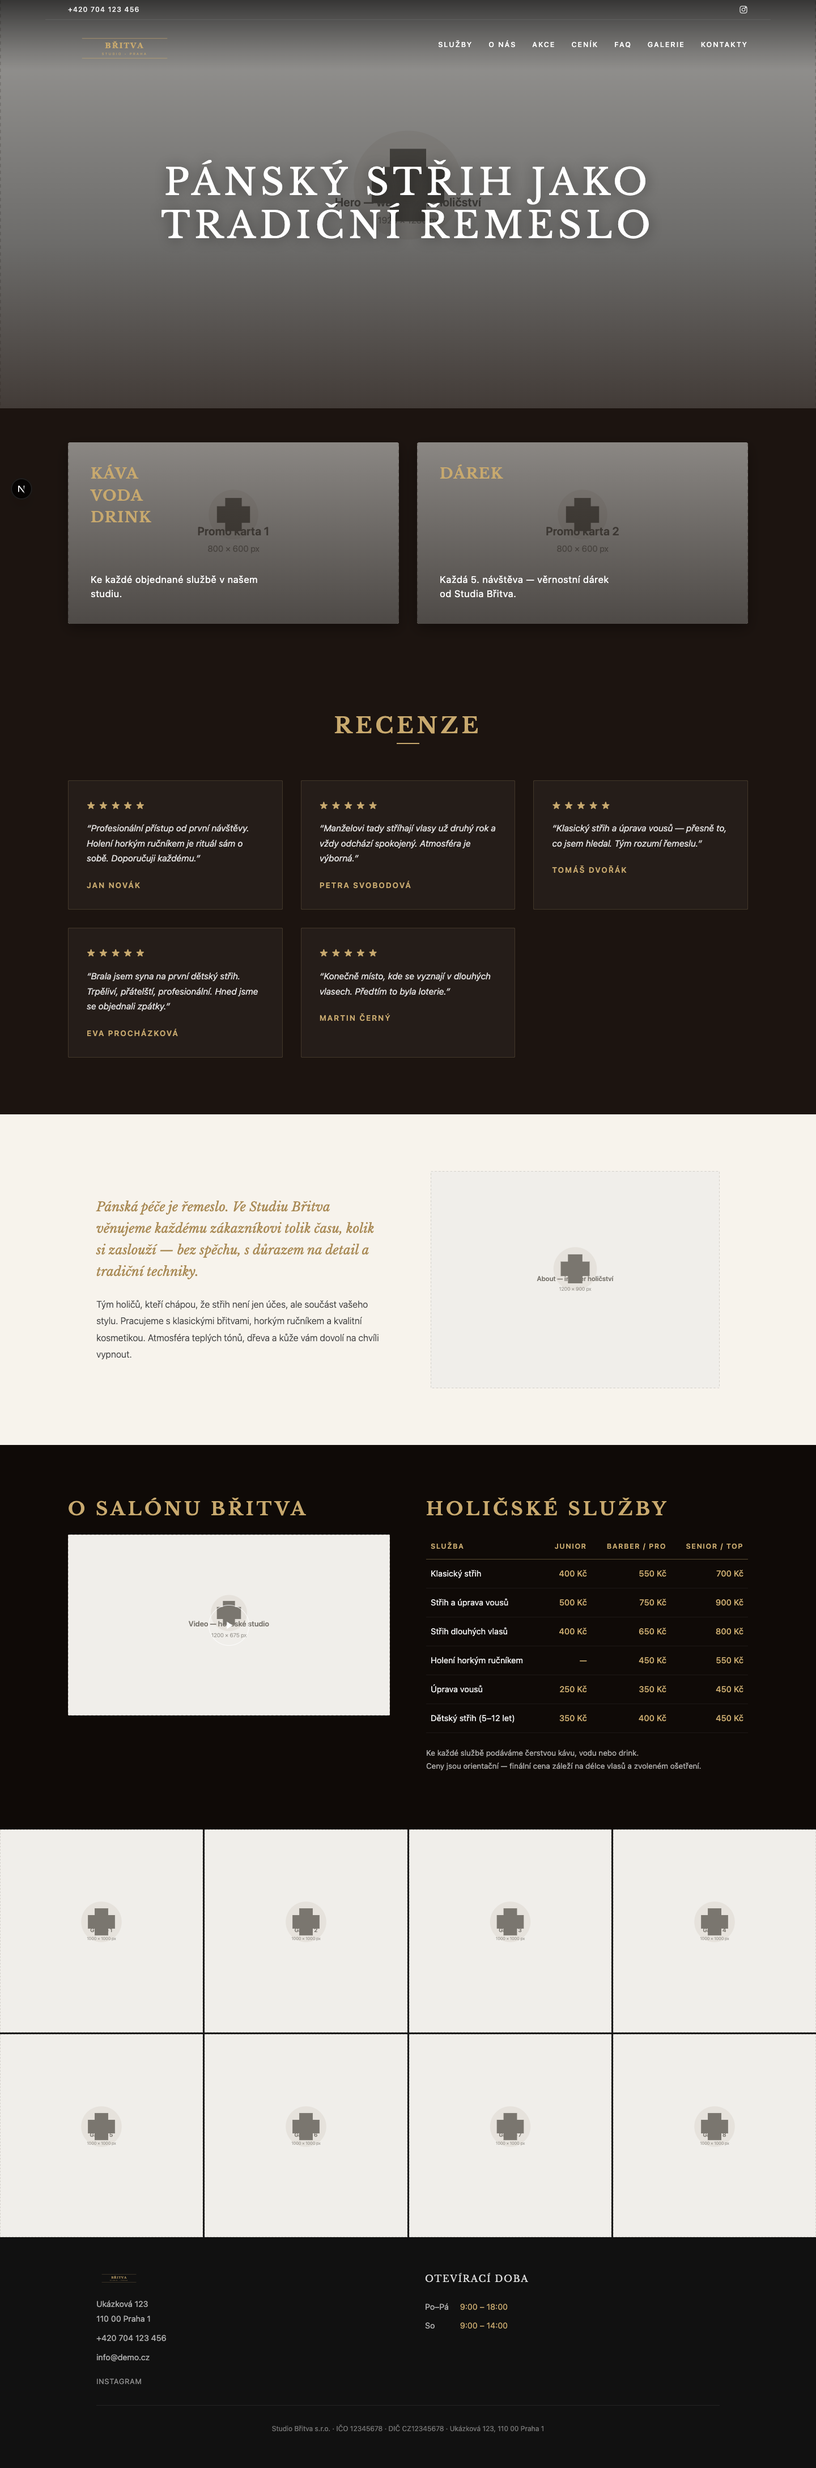
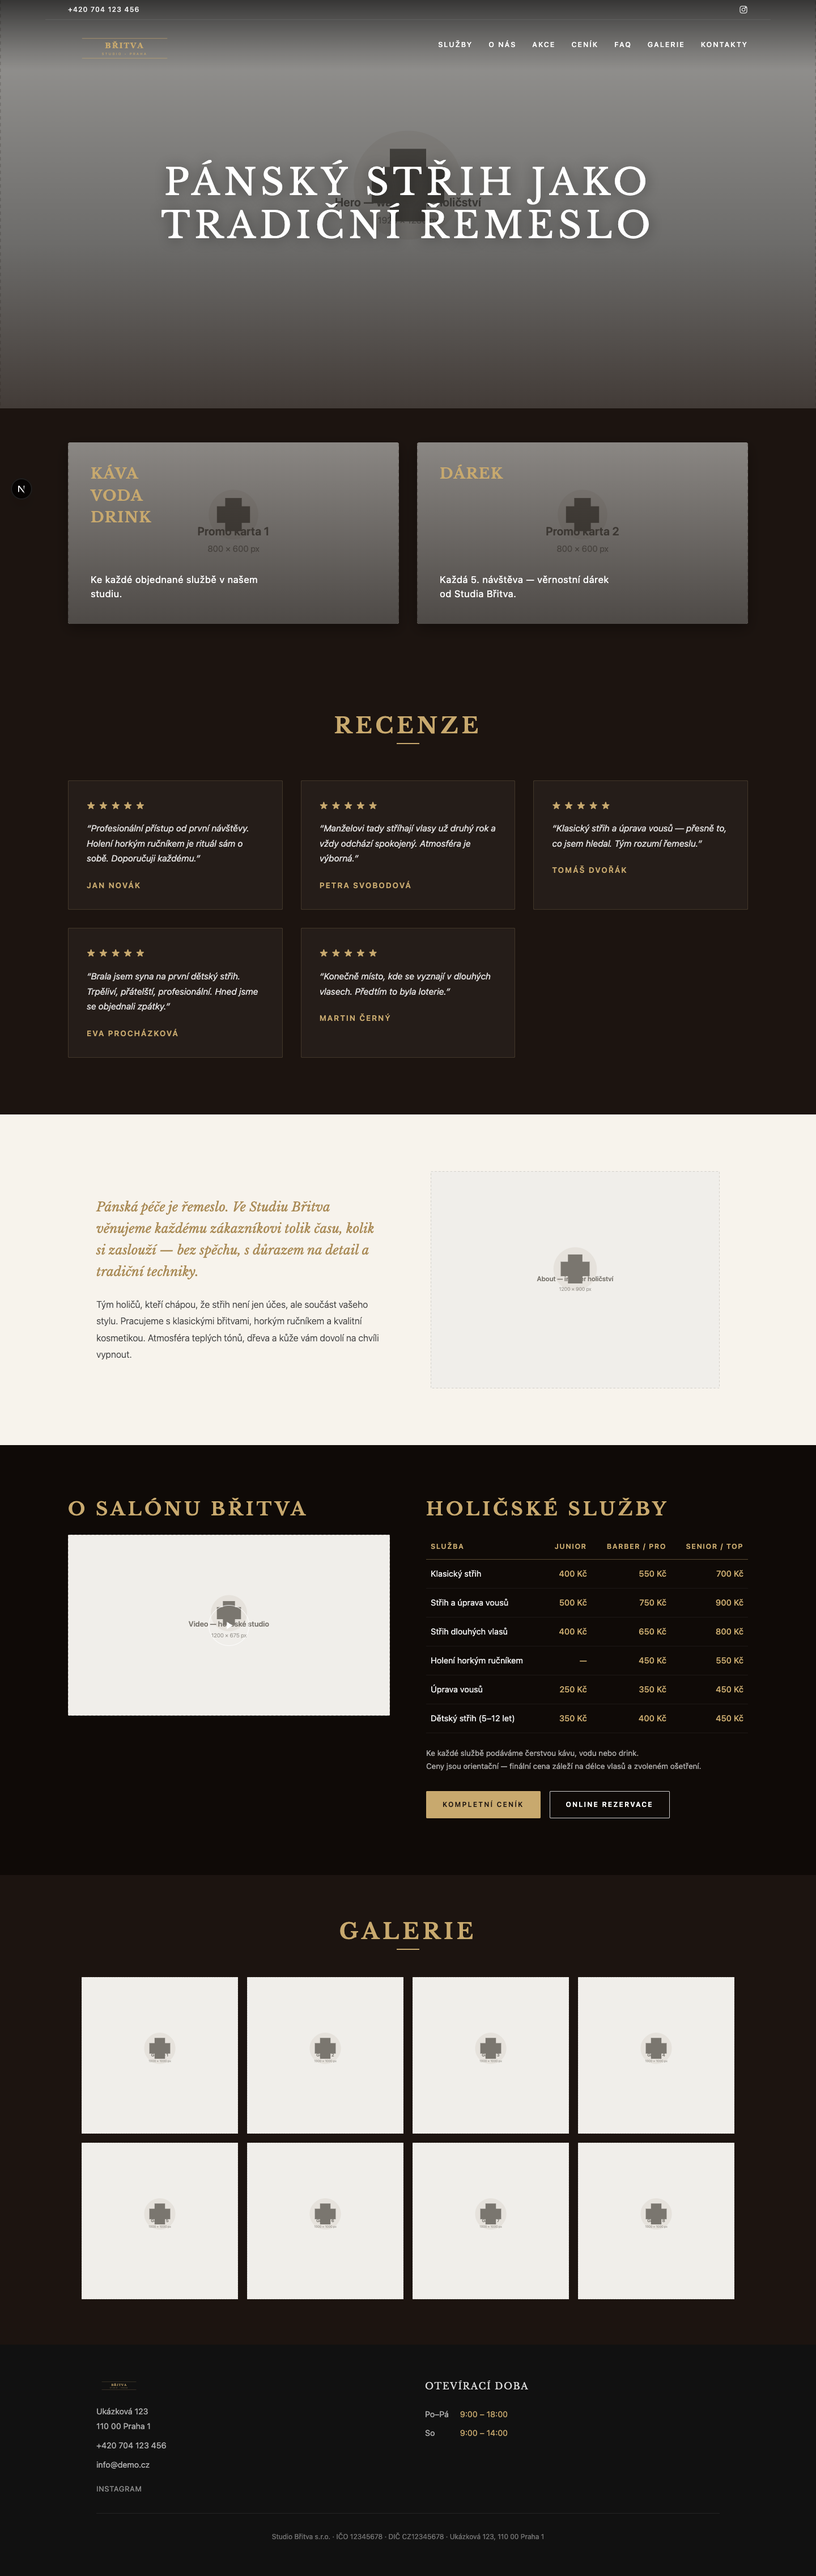
feat(barber-03): pricing CTAs + gallery contained layout
Pricing-table-video (sekce 6):
- Přidán content.ctas[] support v variant pricing-table-video.
- 2 buttony pod notes: "Kompletní ceník" (gold primary) + "Online rezervace"
  (ghost outline secondary), uppercase 12px letter-spacing 0.18em.

Gallery (sekce 7):
- Nová variant gallery/four-col-contained: max-width 1200px, 24px side padding,
  gap 16px (místo 3px full-bleed), title "GALERIE" v gold s underline.
- Matchuje barbershopurban.cz styling — dlaždice s odsazením od okraje, ne full screen.
- Original four-col variant zachován pro barber-02 (Holičství Atelier).

diff --git a/venom/src/components/sections/GallerySection.tsx b/venom/src/components/sections/GallerySection.tsx
@@ -1,0 +1,223 @@
+"use client";
+
+import { useState } from "react";
+import Image from "next/image";
+import { GenericEditableText } from "@/components/tenant/GenericEditableText";
+import { GenericEditableImage } from "@/components/tenant/GenericEditableImage";
+import { shouldSkipNextImageOptimization } from "@/lib/image-source";
+
+interface Props {
+  content: Record<string, unknown>;
+  variant: string;
+  isAdmin: boolean;
+  sectionId: number;
+}
+
+interface GalleryImage { url?: string; fullUrl?: string; alt?: string; }
+
+// Normalize: accept both legacy string[] and new {url,alt}[] formats
+function normalizeImages(raw: unknown): GalleryImage[] {
+  if (!Array.isArray(raw)) return [];
+  return raw.map((item) =>
+    typeof item === "string"
+      ? { url: item, alt: "" }
+      : {
+          url: String((item as Record<string, unknown>).url ?? ""),
+          fullUrl: String((item as Record<string, unknown>).fullUrl ?? ""),
+          alt: String((item as Record<string, unknown>).alt ?? ""),
+        }
+  ).filter((img) => img.url);
+}
+
+export function GallerySection({ content, variant, sectionId }: Props) {
+  const raw = (content as { images?: unknown }).images;
+  const rawArray = Array.isArray(raw) ? raw : [];
+  const images = normalizeImages(raw);
+  const [activeImage, setActiveImage] = useState<GalleryImage | null>(null);
+
+  if (!images.length) {
+    return (
+      <section className="py-16 px-6 text-center" style={{ backgroundColor: "var(--color-surface)" }}>
+        <p className="text-gray-400 text-sm">Galerie — přidejte fotky v editoru</p>
+      </section>
+    );
+  }
+
+  const c = content as { title?: string };
+
+  if (variant === "four-col" || variant === "four-col-contained") {
+    const contained = variant === "four-col-contained";
+    return (
+      <section
+        style={{
+          padding: contained ? "80px 0" : 0,
+          backgroundColor: contained ? "#1c1410" : "#1a1a1a",
+        }}
+        data-template={contained ? "barber-03" : undefined}
+      >
+        {contained && c.title && (
+          <h2
+            className="text-center uppercase"
+            style={{
+              fontFamily: "var(--font-heading)",
+              color: "#c8a96e",
+              fontWeight: 700,
+              fontSize: "clamp(1.6rem, 3vw, 2.4rem)",
+              letterSpacing: "0.16em",
+              marginBottom: 48,
+            }}
+          >
+            <GenericEditableText sectionId={sectionId} field="title" value={c.title} tag="span" />
+          </h2>
+        )}
+        <div
+          data-four-col-gallery
+          style={{
+            display: "grid",
+            gridTemplateColumns: "repeat(4, 1fr)",
+            gap: contained ? "16px" : "3px",
+            maxWidth: contained ? 1200 : undefined,
+            margin: contained ? "0 auto" : undefined,
+            padding: contained ? "0 24px" : undefined,
+          }}
+        >
+          {images.map((img, i) => (
+            <GenericEditableImage
+              key={i}
+              sectionId={sectionId}
+              field={typeof rawArray[i] === "string" ? `images.${i}` : `images.${i}.url`}
+              fullField={typeof rawArray[i] === "string" ? undefined : `images.${i}.fullUrl`}
+              src={img.url!}
+              alt={img.alt || ""}
+              className="relative w-full"
+              style={{ overflow: "hidden" }}
+            >
+              <button
+                type="button"
+                className="relative block w-full overflow-hidden border-0 bg-transparent p-0"
+                style={{ aspectRatio: "1 / 1", cursor: "zoom-in" }}
+                onClick={() => setActiveImage(img)}
+                aria-label="Zobrazit větší obrázek"
+              >
+                <Image
+                  src={img.url!}
+                  alt={img.alt || ""}
+                  width={400}
+                  height={400}
+                  className="h-full w-full object-cover"
+                  style={{ transition: "transform 0.4s ease" }}
+                  onMouseEnter={(e) => { (e.currentTarget as HTMLImageElement).style.transform = "scale(1.04)"; }}
+                  onMouseLeave={(e) => { (e.currentTarget as HTMLImageElement).style.transform = "scale(1)"; }}
+                  sizes="(max-width: 600px) 50vw, 25vw"
+                  unoptimized={shouldSkipNextImageOptimization(img.url)}
+                />
+              </button>
+            </GenericEditableImage>
+          ))}
+        </div>
+        {activeImage?.url && (
+          <button className="gallery-lightbox" type="button" onClick={() => setActiveImage(null)} aria-label="Zavřít náhled">
+            <span className="gallery-lightbox-frame">
+              {/* eslint-disable-next-line @next/next/no-img-element */}
+              <img src={activeImage.fullUrl || activeImage.url} alt={activeImage.alt || ""} />
+            </span>
+          </button>
+        )}
+        <style>{`
+          .gallery-lightbox{position:fixed;inset:0;z-index:80;display:grid;place-items:center;padding:24px;border:0;background:rgba(0,0,0,0.88);cursor:zoom-out;}
+          .gallery-lightbox-frame{display:block;max-width:min(1100px,94vw);max-height:88vh;}
+          .gallery-lightbox-frame img{display:block;max-width:100%;max-height:88vh;width:auto;height:auto;border-radius:4px;object-fit:contain;box-shadow:0 24px 80px rgba(0,0,0,0.5);}
+          @media(max-width:900px){[data-four-col-gallery]{grid-template-columns:repeat(3,1fr) !important;}}
+          @media(max-width:600px){[data-four-col-gallery]{grid-template-columns:repeat(2,1fr) !important;}}
+        `}</style>
+      </section>
+    );
+  }
+
+  return (
+    <section className="py-20 px-6" style={{ backgroundColor: "var(--color-bg, #fff)" }}>
+      <div className="max-w-5xl mx-auto">
+        <h2
+          className="text-3xl font-bold text-center mb-12"
+          style={{ fontFamily: "var(--font-heading)", color: "var(--color-text, #111)" }}
+        >
+          <GenericEditableText sectionId={sectionId} field="title" value={c.title || "Galerie"} tag="span" />
+        </h2>
+        <div
+          className="grid grid-cols-2 md:grid-cols-3 gap-4"
+        >
+          {images.map((img, i) => (
+            <GenericEditableImage
+              key={i}
+              sectionId={sectionId}
+              field={typeof rawArray[i] === "string" ? `images.${i}` : `images.${i}.url`}
+              fullField={typeof rawArray[i] === "string" ? undefined : `images.${i}.fullUrl`}
+              src={img.url!}
+              alt={img.alt || ""}
+              className="relative w-full"
+              style={{ borderRadius: "var(--radius, 8px)", overflow: "hidden" }}
+            >
+              <button
+                type="button"
+                className="relative block w-full overflow-hidden border-0 bg-transparent p-0"
+                style={{
+                  aspectRatio: "1 / 1",
+                  borderRadius: "var(--radius, 8px)",
+                  cursor: "zoom-in",
+                }}
+                onClick={() => setActiveImage(img)}
+                aria-label="Zobrazit větší obrázek"
+              >
+                <Image
+                  src={img.url!}
+                  alt={img.alt || ""}
+                  width={331}
+                  height={331}
+                  className="h-full w-full object-cover"
+                  sizes="(max-width: 768px) 50vw, 33vw"
+                  unoptimized={shouldSkipNextImageOptimization(img.url)}
+                />
+              </button>
+            </GenericEditableImage>
+          ))}
+        </div>
+      </div>
+      {activeImage?.url && (
+        <button className="gallery-lightbox" type="button" onClick={() => setActiveImage(null)} aria-label="Zavřít náhled">
+          <span className="gallery-lightbox-frame">
+            {/* eslint-disable-next-line @next/next/no-img-element */}
+            <img src={activeImage.fullUrl || activeImage.url} alt={activeImage.alt || ""} />
+          </span>
+        </button>
+      )}
+      <style>{`
+        .gallery-lightbox {
+          position: fixed;
+          inset: 0;
+          z-index: 80;
+          display: grid;
+          place-items: center;
+          padding: 24px;
+          border: 0;
+          background: rgba(0,0,0,0.78);
+          cursor: zoom-out;
+        }
+        .gallery-lightbox-frame {
+          display: block;
+          max-width: min(1100px, 94vw);
+          max-height: 88vh;
+        }
+        .gallery-lightbox-frame img {
+          display: block;
+          max-width: 100%;
+          max-height: 88vh;
+          width: auto;
+          height: auto;
+          border-radius: 8px;
+          object-fit: contain;
+          box-shadow: 0 24px 80px rgba(0,0,0,0.35);
+        }
+      `}</style>
+    </section>
+  );
+}

diff --git a/venom/src/components/sections/ServicesSection.tsx b/venom/src/components/sections/ServicesSection.tsx
@@ -317,6 +317,7 @@ export function ServicesSection({ content, variant, sectionId }: Props) {
     const columns = (content.columns as string[]) ?? [];
     const rows = (content.rows as Array<{ service: string; prices: string[] }>) ?? [];
     const notes = (content.notes as string[]) ?? [];
+    const ctas = (content.ctas as Array<{ label: string; href: string; primary?: boolean }>) ?? [];
     return (
       <section style={{ backgroundColor: "#0f0a07", padding: "100px 0" }} data-template="barber-03">
         <div className="max-w-[1280px] mx-auto px-6 lg:px-10 grid gap-12 lg:gap-16" style={{ gridTemplateColumns: "repeat(auto-fit, minmax(min(420px, 100%), 1fr))" }}>
@@ -382,6 +383,33 @@ export function ServicesSection({ content, variant, sectionId }: Props) {
                     <GenericEditableText sectionId={sectionId} field={`notes.${ni}`} value={n} tag="span" />
                   </p>
                 ))}
+              </div>
+            )}
+            {ctas.length > 0 && (
+              <div className="mt-8 flex flex-wrap gap-4">
+                {ctas.map((cta, ci) => {
+                  const isPrimary = cta.primary !== false;
+                  return (
+                    <a
+                      key={ci}
+                      href={cta.href}
+                      className="inline-block uppercase no-underline transition-colors"
+                      style={{
+                        border: isPrimary ? "1.5px solid #c8a96e" : "1.5px solid rgba(255,255,255,0.8)",
+                        backgroundColor: isPrimary ? "#c8a96e" : "transparent",
+                        color: isPrimary ? "#1c1410" : "#fff",
+                        fontFamily: "var(--font-body)",
+                        fontSize: 12,
+                        fontWeight: 600,
+                        letterSpacing: "0.18em",
+                        padding: "14px 28px",
+                        borderRadius: 2,
+                      }}
+                    >
+                      <GenericEditableText sectionId={sectionId} field={`ctas.${ci}.label`} value={cta.label} tag="span" />
+                    </a>
+                  );
+                })}
               </div>
             )}
           </div>

diff --git a/venom/src/sections/variants.ts b/venom/src/sections/variants.ts
@@ -47,6 +47,7 @@ export const SECTION_VARIANTS: Record<string, VariantMeta[]> = {
   gallery: [
     { key: "default",   label: "Galerie – výchozí",   description: "Mřížka 2–3 sloupce s lightboxem",         industries: ["*"] },
     { key: "four-col",  label: "Galerie – 4 sloupce", description: "4-sloupcová čtvercová galerie, tmavé bg",  industries: ["barber", "tattoo"] },
+    { key: "four-col-contained", label: "Galerie – 4 sloupce (kontejner)", description: "4-sloupcová galerie s max-width, gap 16px a title (barber-03)", industries: ["barber", "tattoo"] },
     { key: "masonry",   label: "Galerie – masonry",   description: "Nepravidelná mřížka",                      industries: ["*"] },
     { key: "grid",      label: "Galerie – mřížka",    description: "Pravidelná mřížka",                        industries: ["*"] },
   ],
